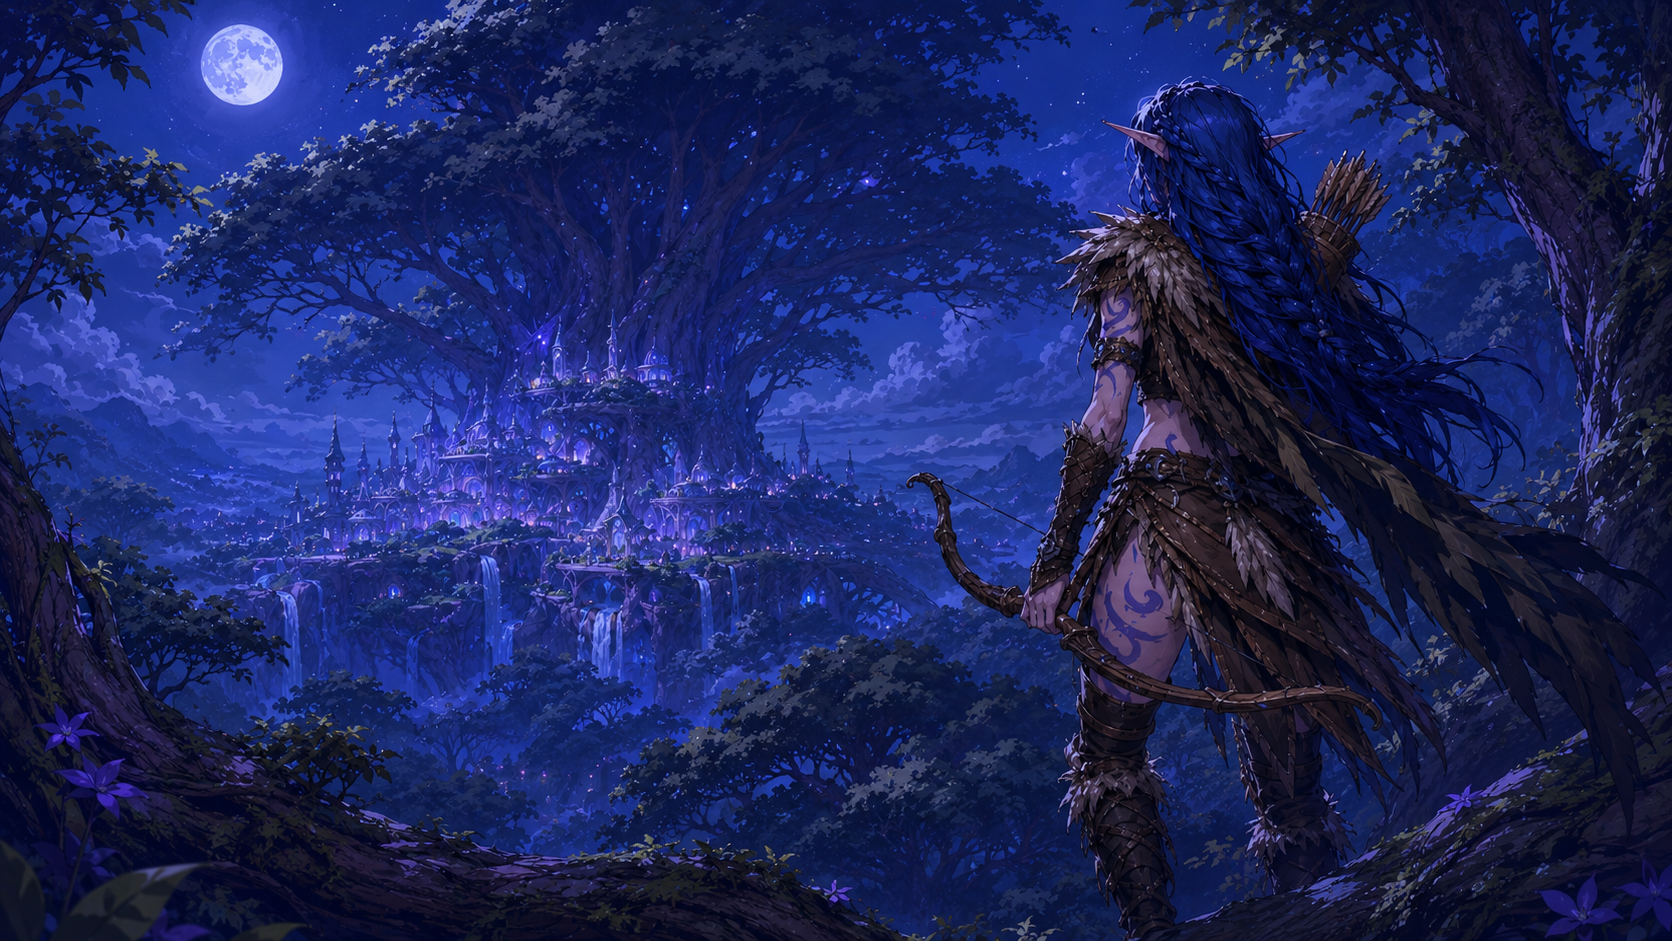
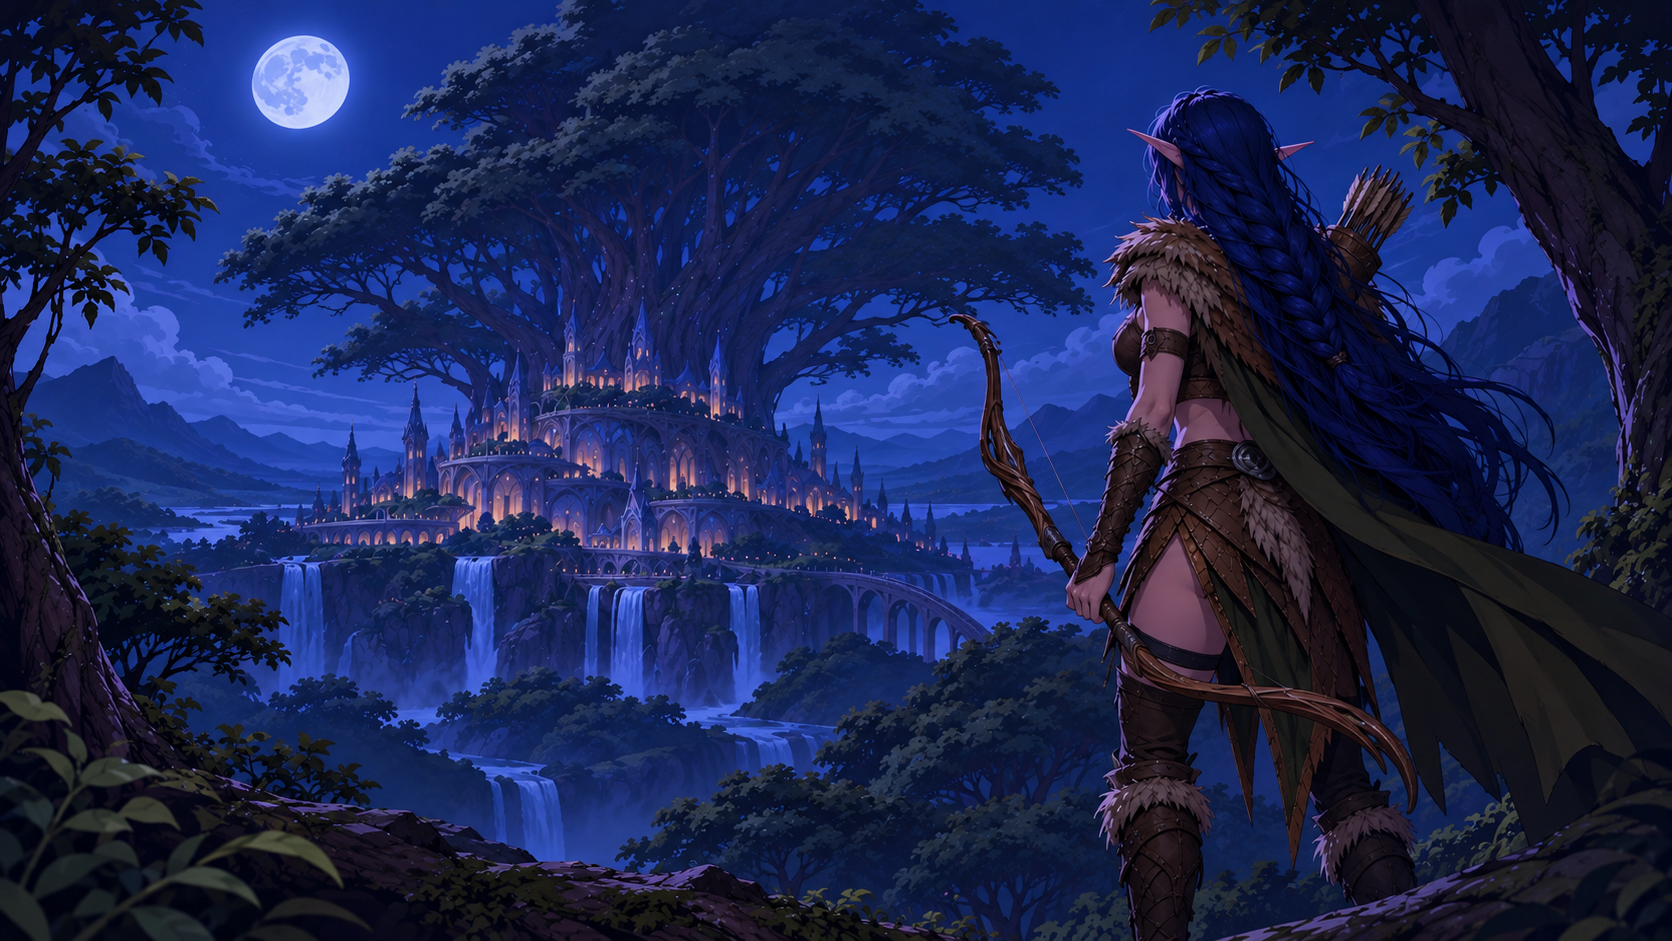
Update

diff --git a/characters/demetria.html b/characters/demetria.html
@@ -9,7 +9,7 @@
   <link rel="stylesheet" href="../css/styles.css">
 </head>
 <body class="character-body" data-character-page="demetria" data-character="demetria">
-  <div class="page-background-layer is-active" id="pageBackgroundPrimary" data-image="../assets/optimized/characters/demetria/gallery/demetria_prolog.webp" style="background-image: linear-gradient(90deg, rgba(4, 6, 10, 0.78) 0%, rgba(4, 6, 10, 0.54) 34%, rgba(4, 6, 10, 0.12) 54%, rgba(4, 6, 10, 0) 70%), url(&quot;../assets/optimized/characters/demetria/gallery/demetria_prolog.webp&quot;)" aria-hidden="true"></div>
+  <div class="page-background-layer is-active" id="pageBackgroundPrimary" data-image="../assets/optimized/characters/demetria/gallery/demetria_sel.png" style="background-image: linear-gradient(90deg, rgba(4, 6, 10, 0.78) 0%, rgba(4, 6, 10, 0.54) 34%, rgba(4, 6, 10, 0.12) 54%, rgba(4, 6, 10, 0) 70%), url(&quot;../assets/optimized/characters/demetria/gallery/demetria_sel.png&quot;)" aria-hidden="true"></div>
   <div class="page-background-layer" id="pageBackgroundSecondary" aria-hidden="true"></div>
   <div class="page-aurora" aria-hidden="true">
     <div class="glow glow-one"></div>
